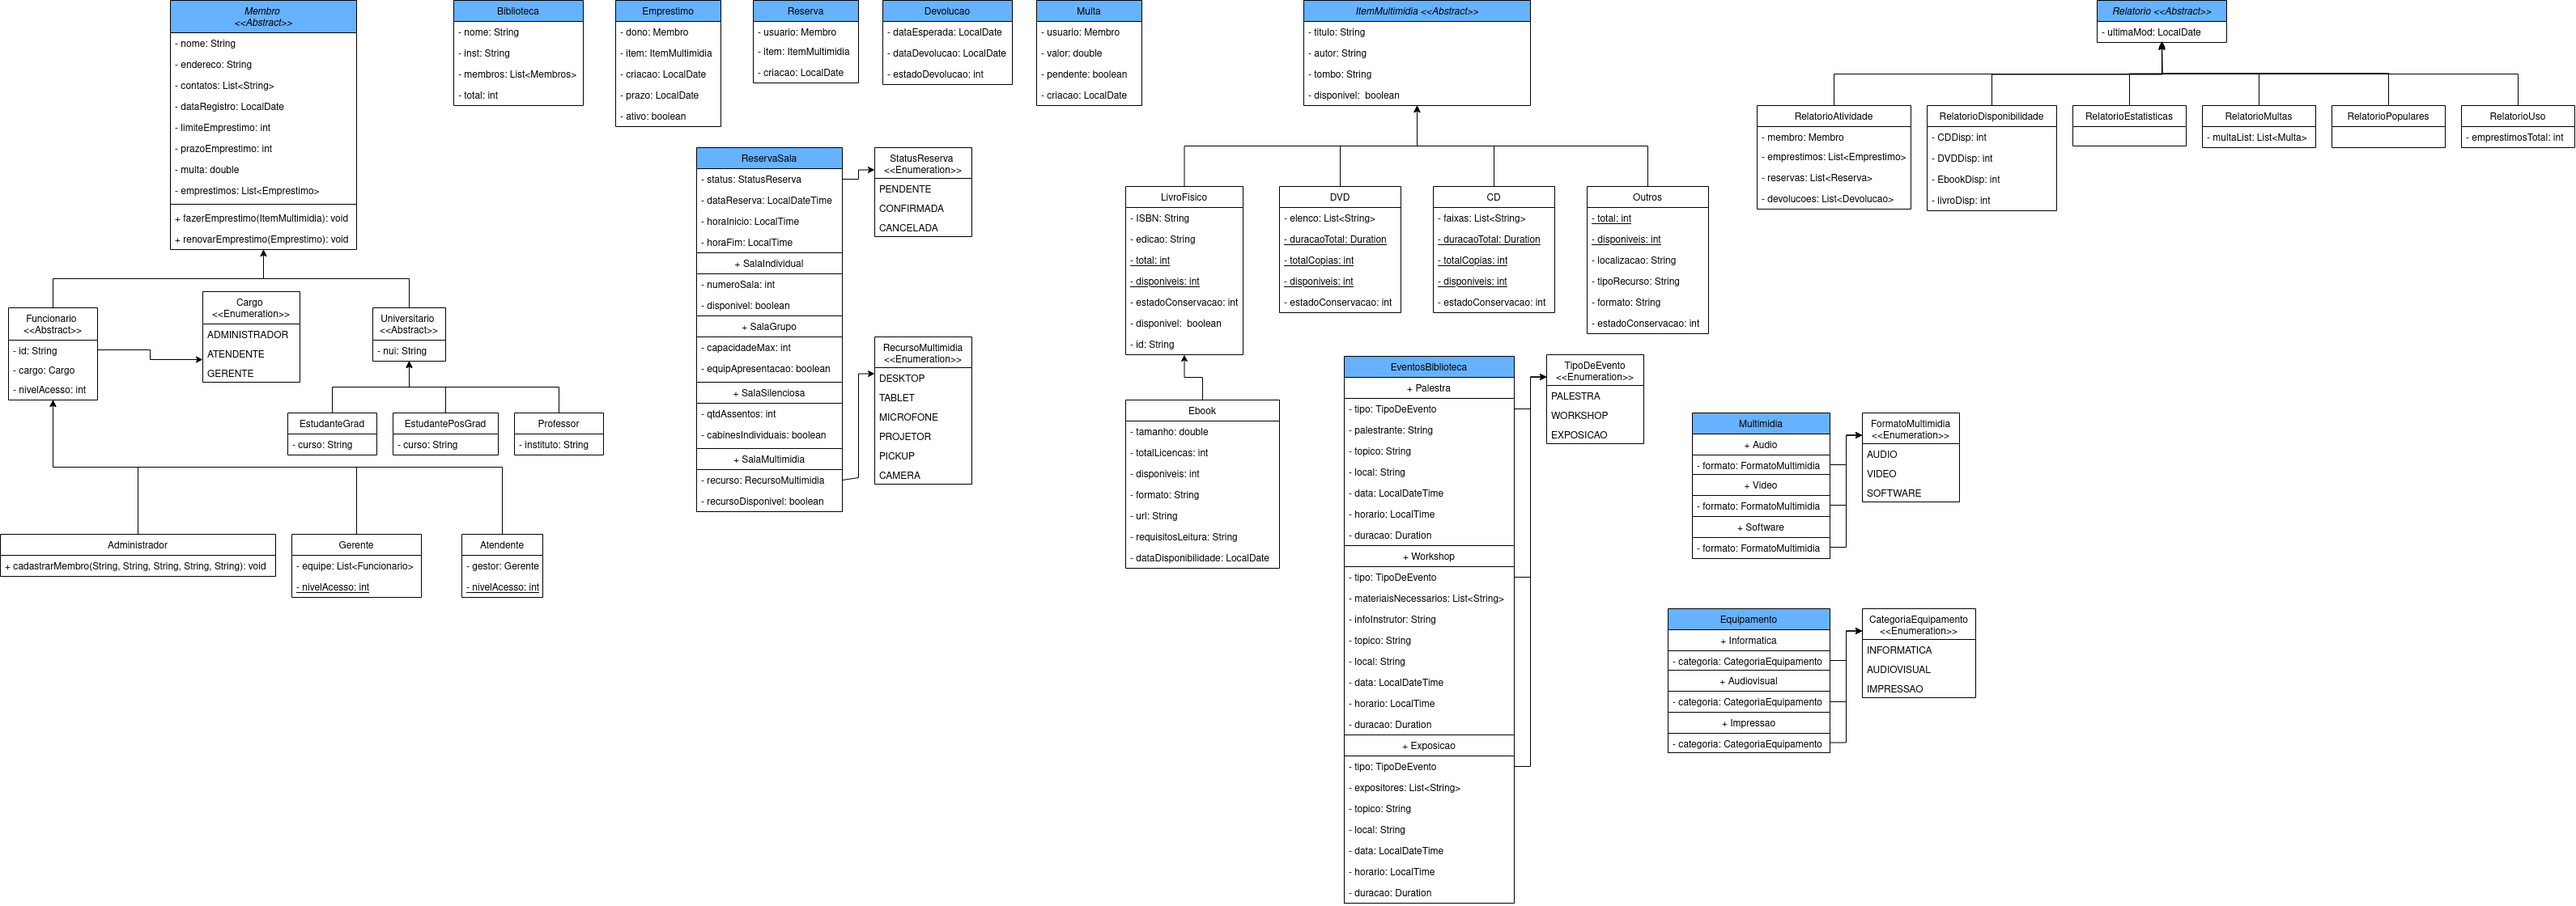
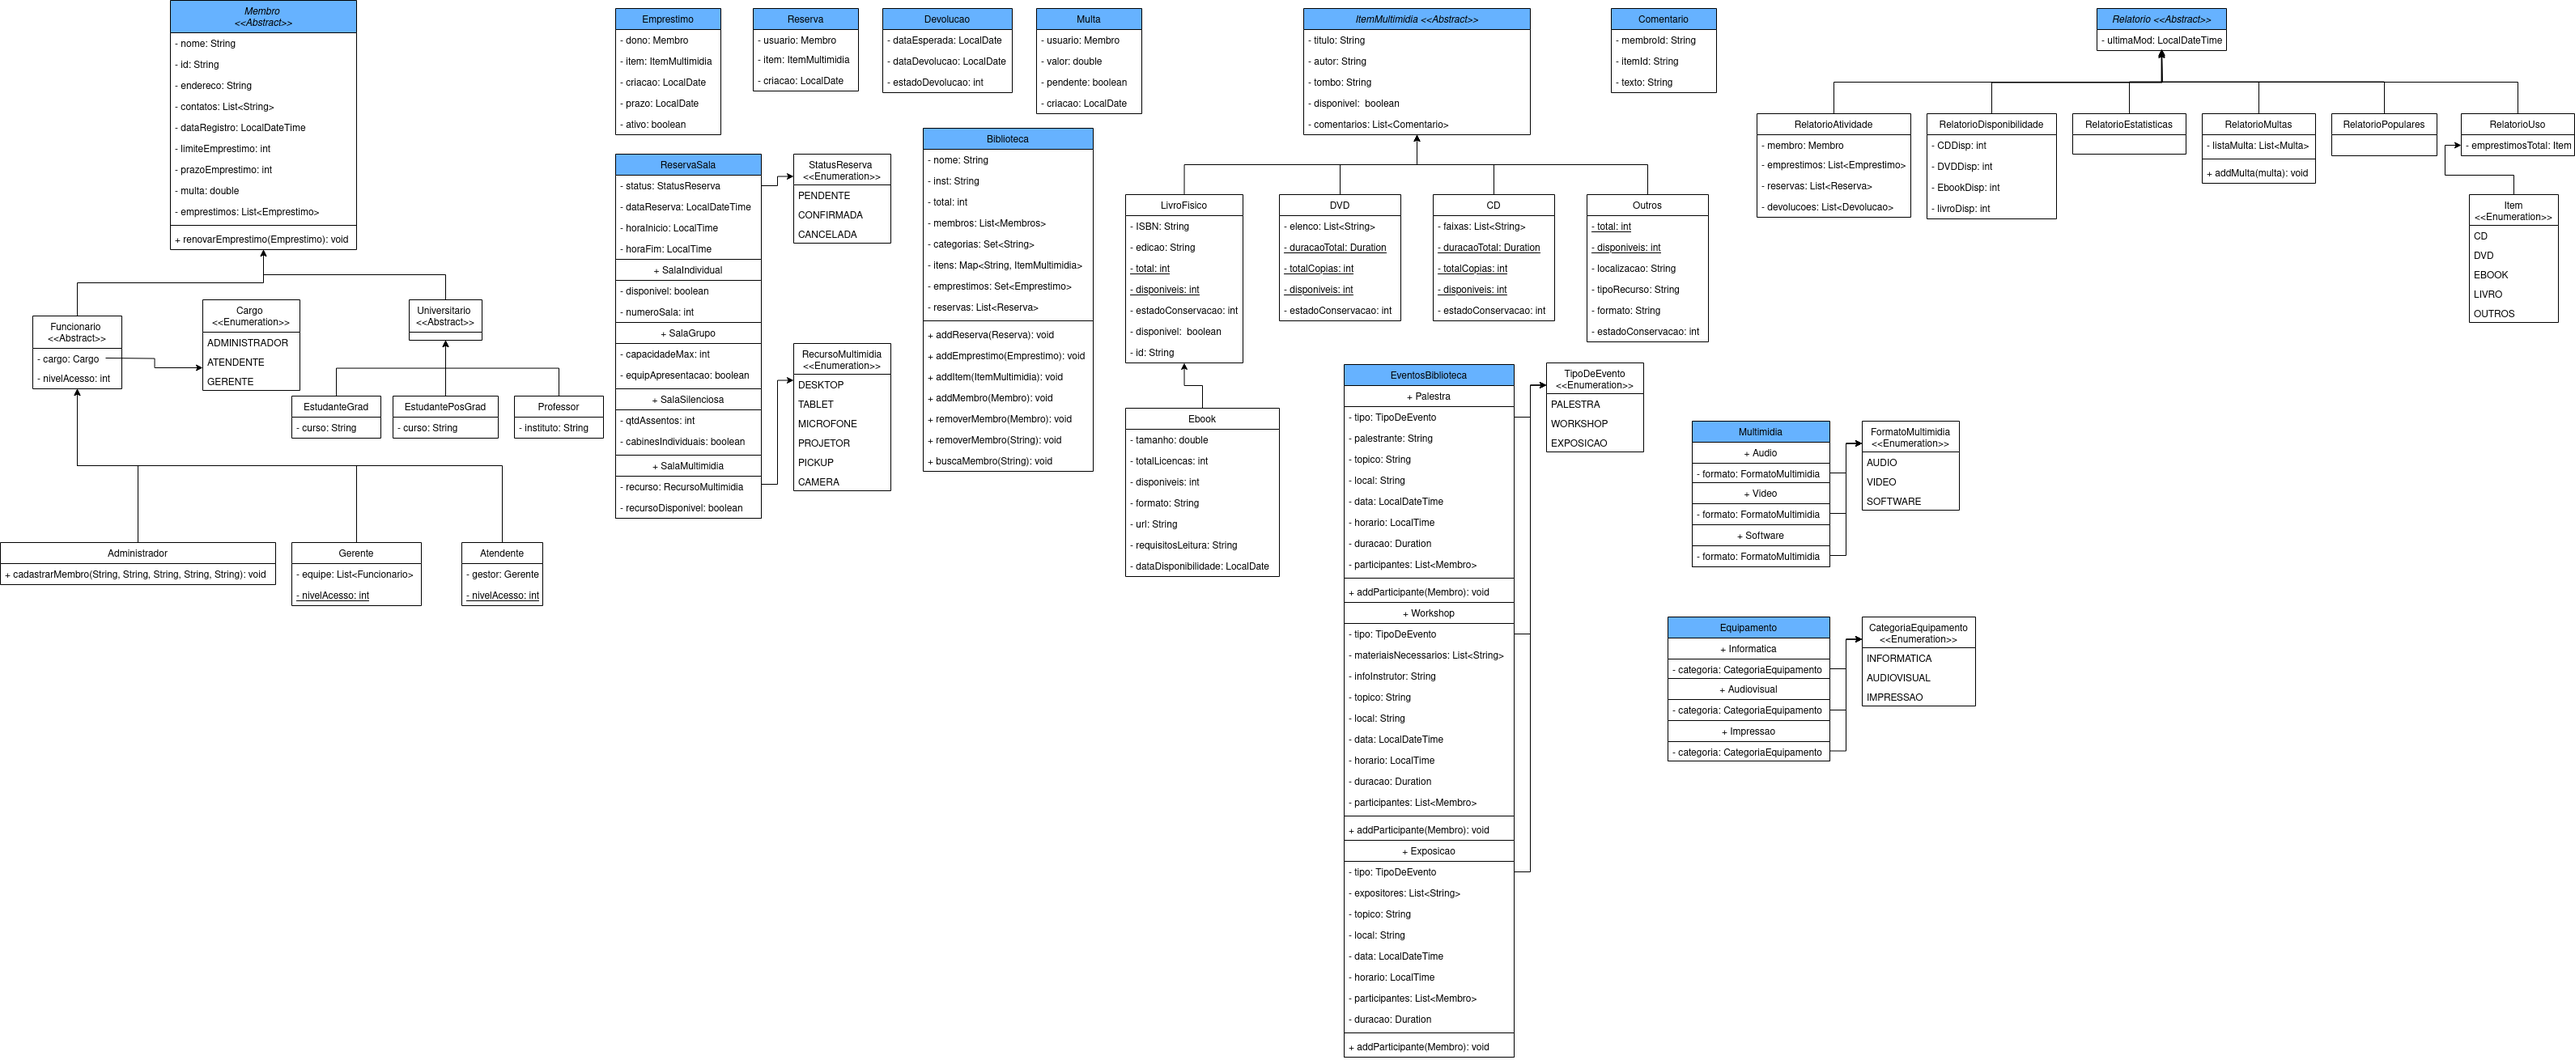
finaliza lab06

diff --git a/src/biblioteca/models/membros/Membro.java b/src/biblioteca/models/membros/Membro.java
@@ -3,6 +3,7 @@ package biblioteca.models.membros;
 import biblioteca.models.formularios.Emprestimo;
 
 import java.time.LocalDate;
+import java.time.LocalDateTime;
 import java.util.ArrayList;
 import java.util.List;
 
@@ -13,7 +14,7 @@ public abstract class Membro {
     private String id; //código exclusivo do membro para controle interno
     private String endereco;
     private List<String> contatos; // Lista com telefones, e-mails, etc
-    private final LocalDate dataRegistro; // Data de registro
+    private final LocalDateTime dataRegistro; // Data de registro
     private int limiteEmprestimo; // Limite de empréstimos
     private int prazoEmprestimo; // Prazo limite para empréstimos
     private double multa;
@@ -24,7 +25,7 @@ public abstract class Membro {
         this.endereco = endereco;
         this.contatos = new ArrayList<>();
         this.contatos.add(contato);
-        this.dataRegistro = LocalDate.now();
+        this.dataRegistro = LocalDateTime.now();
         this.emprestimos = new ArrayList<>();
         this.limiteEmprestimo = 1;
         this.prazoEmprestimo = 1;
@@ -83,7 +84,7 @@ public abstract class Membro {
         this.multa = multa;
     }
 
-    public LocalDate getDataRegistro() {
+    public LocalDateTime getDataRegistro() {
         return dataRegistro;
     }
 

diff --git a/src/biblioteca/models/EventosBiblioteca.java b/src/biblioteca/models/EventosBiblioteca.java
@@ -11,19 +11,6 @@ public class EventosBiblioteca {
 	public enum TipoDeEvento {
 		PALESTRA, WORKSHOP, EXPOSICAO
 	}
-	private List<Membro> participantes;
-
-	public List<Membro> getParticipantes() {
-		return participantes;
-	}
-
-	public void setParticipantes(List<Membro> participantes) {
-		this.participantes = participantes;
-	}
-
-	public void addParticipante(Membro participante){
-		this.participantes.add(participante);
-	}
 
 	public class Palestra {
 		private final TipoDeEvento tipo;
@@ -91,6 +78,9 @@ public class EventosBiblioteca {
 		}
 		public void setParticipantes(List<Membro> participantes) {
 			this.participantes = participantes;
+		}
+		public void addParticipante(Membro participante){
+			this.participantes.add(participante);
 		}
 	}
 	
@@ -170,6 +160,9 @@ public class EventosBiblioteca {
 		public void setParticipantes(List<Membro> participantes) {
 			this.participantes = participantes;
 		}
+		public void addParticipante(Membro participante){
+			this.participantes.add(participante);
+		}
 	}
 	
 	
@@ -239,6 +232,9 @@ public class EventosBiblioteca {
 		}
 		public void setParticipantes(List<Membro> participantes) {
 			this.participantes = participantes;
+		}
+		public void addParticipante(Membro participante){
+			this.participantes.add(participante);
 		}
 	}
 

diff --git a/src/biblioteca/models/relatorios/RelatorioUso.java b/src/biblioteca/models/relatorios/RelatorioUso.java
@@ -1,17 +1,24 @@
 package biblioteca.models.relatorios;
 
 public class RelatorioUso extends Relatorio{
-    private int[] emprestimosTotal; // 0: CD; 1: DVD; 2: Ebook; 3: Livro físico; 4: Outros // TODO implementar com enum
+	public enum Item {
+		CD, DVD, EBOOK, LIVRO, OUTROS
+	}
+	private Item emprestimosTotal;
 
-    public RelatorioUso(int[] emprestimosTotal) {
-        this.emprestimosTotal = emprestimosTotal;
+    public RelatorioUso(Item item) {
+        this.emprestimosTotal = item;
     }
-
-    public int[] getEmprestimosTotal() {
+    public Item getEmprestimosTotal() {
         return emprestimosTotal;
     }
-
-    public void setEmprestimosTotal(int[] emprestimosTotal) {
+    public void setEmprestimosTotal(Item emprestimosTotal) {
         this.emprestimosTotal = emprestimosTotal;
     }
+	public Item getItem() {
+		return emprestimosTotal;
+	}
+	public void setItem(Item emprestimosTotal) {
+		this.emprestimosTotal = emprestimosTotal;
+	}
 }

diff --git a/src/biblioteca/models/relatorios/RelatorioMultas.java b/src/biblioteca/models/relatorios/RelatorioMultas.java
@@ -5,21 +5,21 @@ import biblioteca.models.formularios.Multa;
 import java.util.List;
 
 public class RelatorioMultas extends Relatorio{
-    private List<Multa> multaList;
+    private List<Multa> listaMulta;
 
-    public RelatorioMultas(List<Multa> multaList) {
-        this.multaList = multaList;
+    public RelatorioMultas(List<Multa> listaMulta) {
+        this.listaMulta = listaMulta;
     }
 
     public List<Multa> getMultaList() {
-        return multaList;
+        return listaMulta;
     }
 
-    public void setMultaList(List<Multa> multaList) {
-        this.multaList = multaList;
+    public void setMultaList(List<Multa> listaMulta) {
+        this.listaMulta = listaMulta;
     }
 
     public void addMulta(Multa multa){
-        this.multaList.add(multa);
+        this.listaMulta.add(multa);
     }
 }

diff --git a/src/biblioteca/models/relatorios/Relatorio.java b/src/biblioteca/models/relatorios/Relatorio.java
@@ -2,20 +2,20 @@ package biblioteca.models.relatorios;
 
 
 
-import java.time.LocalDate;
+import java.time.LocalDateTime;
 
 public abstract class Relatorio {
-    private LocalDate ultimaMod;  // Data da última modificação
+    private LocalDateTime ultimaMod;  // Data da última modificação
 
     public Relatorio() {
-        this.ultimaMod = LocalDate.now();
+        this.ultimaMod = LocalDateTime.now();
     }
 
-    public LocalDate getUltimaMod() {
+    public LocalDateTime getUltimaMod() {
         return ultimaMod;
     }
 
-    public void setUltimaMod(LocalDate ultimaMod) {
+    public void setUltimaMod(LocalDateTime ultimaMod) {
         this.ultimaMod = ultimaMod;
     }
 }

diff --git a/src/biblioteca/models/multimidia/DVD.java b/src/biblioteca/models/multimidia/DVD.java
@@ -12,7 +12,7 @@ public class DVD extends ItemMultimidia {
     private int estadoConservacao; // Varia de 0 a 2, sendo 0 novo, 1 conservado e 2 danificado
     
     public DVD(String titulo, String autor, Duration duracaoTotal, int estadoConservacao) {
-        super(titulo, autor);
+        super(titulo, autor, null);
         totalCopias = getTotalCopias() + 1; // Número total de cópias por edição
         disponiveis = getDisponiveis() + 1; // Número de cópias disponíveis por edição
         this.duracaoTotal = duracaoTotal;

diff --git a/src/biblioteca/models/multimidia/CD.java b/src/biblioteca/models/multimidia/CD.java
@@ -12,7 +12,7 @@ public class CD extends ItemMultimidia {
     private int estadoConservacao; // Varia de 0 a 2, sendo 0 novo, 1 conservado e 2 danificado
 	
     public CD(String titulo, String autor, Duration duracaoTotal, int estadoConservacao) {
-        super(titulo, autor);
+        super(titulo, autor, null);
         totalCopias = getTotalCopias() + 1; // Número total de cópias por edição
         disponiveis = getDisponiveis() + 1; // Número de cópias disponíveis por edição
         this.duracaoTotal = duracaoTotal;

diff --git a/src/biblioteca/models/multimidia/LivroFisico.java b/src/biblioteca/models/multimidia/LivroFisico.java
@@ -13,7 +13,7 @@ public class LivroFisico extends ItemMultimidia{
 
     // Construtor
     public LivroFisico(String titulo, String autor, String ISBN, String edicao, int estadoConservacao) {
-        super(titulo, autor);
+        super(titulo, autor, null);
         this.ISBN = ISBN;
         this.edicao = edicao;
         total = getTotal() + 1; // Número total de cópias por edição

diff --git a/src/biblioteca/models/multimidia/Outros.java b/src/biblioteca/models/multimidia/Outros.java
@@ -11,7 +11,7 @@ public class Outros extends ItemMultimidia{
     
     
     public Outros(String titulo, String autor, String localizacao, String tipoRecurso, String formato, int estadoConservacao) {
-        super(titulo, autor);
+        super(titulo, autor, null);
     	this.localizacao = localizacao;
     	this.tipoRecurso = tipoRecurso;
         this.formato = formato;

diff --git a/src/biblioteca/models/Biblioteca.java b/src/biblioteca/models/Biblioteca.java
@@ -108,7 +108,7 @@ public class Biblioteca {
         }
     }
 
-    public Membro getMembro(String id){
+    public Membro buscaMembro(String id){
         for (Membro membro : membros){
             if (membro.getId().equals(id)) {
                 return membro;
